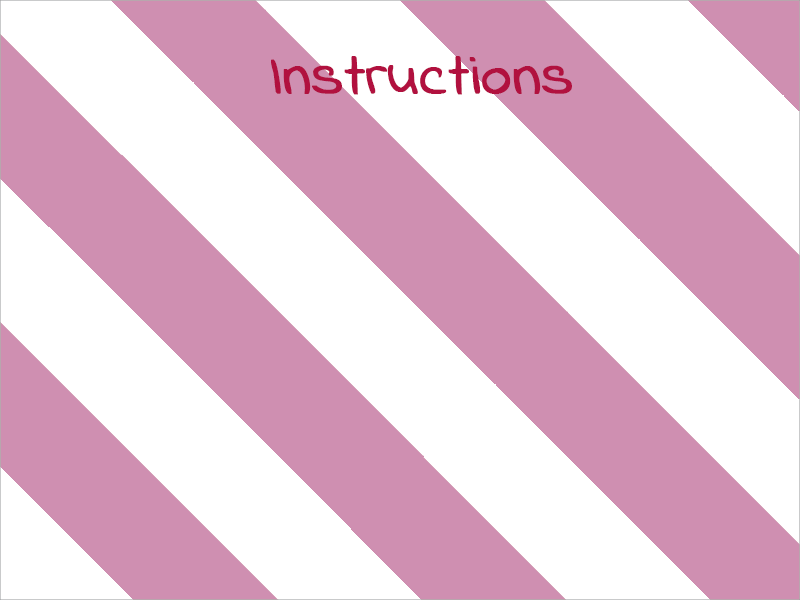
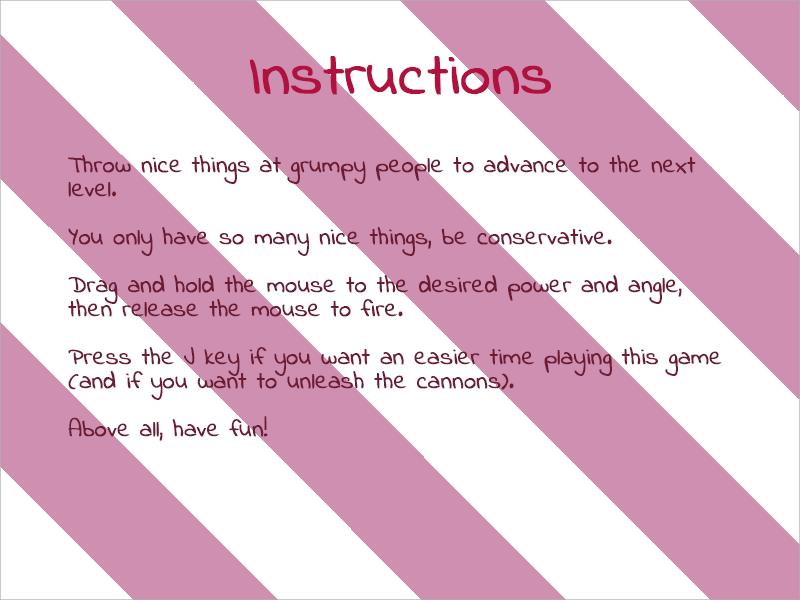
Revised instructions screen, added new and original cupcake asset along with giant cupcake, added easterMode variable to keep track of whether easter egg is enabled or not, while easter egg is enabled, fire giant cupcakes

diff --git a/assets/js/main.js b/assets/js/main.js
@@ -25,7 +25,7 @@ var powerText, angleText, userAngle, userPower;
 
 var walk, blocks, blockArray, spriteX, spriteY, powerUpX, powerUpY, movingWalkerX, movingWalkerY, direction, walkerDirection;
 
-var itemToChuck, powerUp, cupCake, gingerBread, powerUpSpeed, walker, movingWalker, itemSpeedFactor;
+var itemToChuck, powerUp, cupCake, giantCupcake, gingerBread, powerUpSpeed, walker, movingWalker, itemSpeedFactor;
 
 var walkingDirection;
 
@@ -33,7 +33,7 @@ var splat, isMuted;
 
 var gameOver, timeLimit = 120;
 
-var jamieMode, paused, ammoBar, ammoBarWidth;
+var jamieMode, easterMode, paused, ammoBar, ammoBarWidth;
 
 var score;//High score persistance if time available 
 
@@ -185,9 +185,9 @@ function drawInstructionsScreen() {
 
     stage.addChild(instructionsScreen);
 //    stage.addChild(text);
-    stage.addChild(text2);
-    stage.addChild(text3);
-    stage.addChild(text4);
+//    stage.addChild(text2);
+//    stage.addChild(text3);
+//    stage.addChild(text4);
     stage.addChild(startButton);
 }
 
@@ -276,7 +276,8 @@ fileManifest = [
                 {src:"img/sprites.png", id:"mySprites"},
                 {src:"img/gameBackdrop.png", id:"backDrop1"},
                 {src:"img/grumpyCat3.png", id:"grumpyCat"},
-                {src:"img/tempCupCake.png", id:"cupCake"},
+                {src:"img/cupcake.png", id:"cupCake"},
+                {src:"img/giantCupcake.png", id:"giantCupcake"},
                 {src:"img/win_revised.png", id:"winScreen"},
                 {src:"img/GingerbreadMan.png", id:"gingerBread"},
                 {src:"img/easterHit.png", id:"easterHit"},
@@ -337,6 +338,7 @@ function loadComplete(evt) {
     backDrop1 = new createjs.Bitmap(queue.getResult("backDrop1"));
     grumpyCat = new createjs.Bitmap(queue.getResult("grumpyCat"));
     cupCake = new createjs.Bitmap(queue.getResult("cupCake"));
+    giantCupcake = new createjs.Bitmap(queue.getResult("giantCupcake"));
     gingerBread = new createjs.Bitmap(queue.getResult("gingerBread"));
     winScreen = new createjs.Bitmap(queue.getResult("winScreen"));
     easterHit = new createjs.Bitmap(queue.getResult("easterHit"));
@@ -440,6 +442,10 @@ function selectRandomItem() {
     var rand = Math.floor(Math.random()* 10);
     if(rand < 5){
         itemToChuck = cupCake;
+        if(easterMode)
+        {
+            itemToChuck = giantCupcake;
+        }
     }
     else if(rand > 5){
         itemToChuck = gingerBread;
@@ -613,6 +619,7 @@ function init() {
     loadFiles();
     gameOver = false;
     jamieMode = false;
+    easterMode = false;
     //walkingDirection = "walkRight";
     
 
@@ -676,6 +683,7 @@ function handleKeyUp(event) {
                 jamieMode = true;
                 //var storeItemCount = itemsToThrow;
                 itemsToThrow = 1000000;
+    
             }
             upDateAmmoBar();
             break;
@@ -854,6 +862,7 @@ function checkForCollision() {
 
     }
     if(easterCollision){
+        easterMode = true;
         spriteX = 50;
         spriteY = 450;
         stage.addChild(easterBackdrop);
@@ -931,6 +940,8 @@ function resetGame() {
 
 
 function goToNextLevel() {
+    jamieMode = false;
+    easterMode = false;
     numberOfHits = 0;
     gameLevelNumber++;
     powerUpSpeed += 2;
